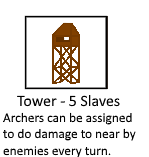
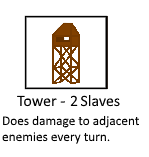
Added archer towers.

Changed region(s): [[0.0, 0.7134, 0.9396, 1.0], [0.4564, 0.586, 0.5369, 0.6879]]

diff --git a/Civilization Game/source.js b/Civilization Game/source.js
@@ -18,6 +18,49 @@ var pressed = false;
 var burning = false;
 var burningTown;
 var message1 = false;
+var arrowMoving = false;
+var arrowTargetX;
+var arrowTargetY;
+var targetSquad;
+
+function adjustArrow(){
+    if(arrowMoving==true){
+        console.log("Moved");
+        document.getElementById('Arrow').style.webkitTransform = "rotate("+angleBetween(parseInt(document.getElementById("Arrow").style.left),parseInt(document.getElementById("Arrow").style.top),arrowTargetX,arrowTargetY)+"deg)";  
+        if(parseInt(document.getElementById("Arrow").style.left)!=arrowTargetX || parseInt(document.getElementById("Arrow").style.top)!=arrowTargetY){
+            if(parseInt(document.getElementById("Arrow").style.left)-arrowTargetX < 0){
+                document.getElementById("Arrow").style.left = parseInt(document.getElementById("Arrow").style.left) + 1; 
+            }else if(parseInt(document.getElementById("Arrow").style.left)-arrowTargetX > 0){
+                document.getElementById("Arrow").style.left = parseInt(document.getElementById("Arrow").style.left) - 1; 
+            }
+
+            if(parseInt(document.getElementById("Arrow").style.top)-arrowTargetY < 0){
+                document.getElementById("Arrow").style.top = parseInt(document.getElementById("Arrow").style.top) + 1; 
+            }else if(parseInt(document.getElementById("Arrow").style.top)-arrowTargetY > 0){
+                document.getElementById("Arrow").style.top = parseInt(document.getElementById("Arrow").style.top) - 1; 
+            }   
+            setTimeout(adjustArrow,0.1);  
+        }else{
+            arrowMoving = false;
+            if(squads[targetSquad].units.length>1){
+                squads[targetSquad].units.splice(squads[targetSquad].units.length-1,1);   
+            }else{
+                squads.splice(targetSquad,1);
+            }
+        }    
+    }
+    
+}
+
+function arrowEffect(x1,y1,x2,y2){
+    document.getElementById("Arrow").style.left = x1;
+    document.getElementById("Arrow").style.top = y1;
+    document.getElementById('Arrow').style.webkitTransform = "rotate("+angleBetween(x1,y1,x2,y2)+"deg)";  
+    arrowMoving = true;
+    arrowTargetX=x2+50;
+    arrowTargetY=y2+50;
+    setTimeout(adjustArrow,100);  
+}
 
 function resetMessages(){
     message1 = false;
@@ -172,11 +215,21 @@ function advanceTurn(){
             rand = round(random(0,squads[a].adjacentSpaces.length-1));
             squads[a].targetX = squads[a].adjacentSpaces[rand].x;
             squads[a].targetY = squads[a].adjacentSpaces[rand].y; 
+
         }
         if(squads[a].team==1 && battle == 0){
             squads[a].update();
         }
+
+
     }
+
+    for(var a=0;a<towns.length;a++){
+        towns[a].arrowFired = false;
+    }
+
+
+
         
     }   
 }
@@ -437,6 +490,7 @@ function clearMap(){
     for(var a=1;a<13;a++){
         document.getElementById("town"+a).src = ""; 
         document.getElementById("Flag"+a).src = ""; 
+        document.getElementById("Tower"+a).src = ""; 
     }  
     document.getElementById("ConvertUnitsButton").src = "";    
     document.getElementById("GarrisonButton").src = "";    
@@ -488,6 +542,7 @@ function clearMap(){
     document.getElementById("X").src = ("");
     document.getElementById("Swords").src = ("");
     document.getElementById("Fire").src = ("");
+    document.getElementById("Arrow").src = ("");
     document.getElementById("SoldierToPeasant").src = ("");
     document.getElementById("HorizontalLine").src = ("");
     document.getElementById("SquadTroops").innerHTML = ("");
@@ -564,6 +619,30 @@ function draw() {
     document.getElementById("DividingLine").src = ("graphics/DividingLine.png");
     document.getElementById("HorizontalLine").src = ("graphics/HorizontalLine.png");
     document.getElementById("EndTurnButton").src = ("graphics/EndTurnButton.png");
+
+    for(var d=0;d<towns.length;d++){
+        for(var a=0;a<mapPoints.length;a++){
+            if(adjacent(towns[d].x,towns[d].y,mapPoints[a].x,mapPoints[a].y)){
+                for(var b=0;b<squads.length;b++){
+                    if(squads[b].x == mapPoints[a].x && squads[b].y== mapPoints[a].y){
+                        if(towns[d].tower==true && squads[b].team != towns[d].team){
+                            console.log("Fired");
+                            if(towns[d].arrowFired==false){
+                                towns[d].arrowFired = true; 
+                                targetSquad = b;
+                                arrowEffect(towns[d].x,towns[d].y,mapPoints[a].x,mapPoints[a].y);   
+                            }
+                        }
+                    }
+                }
+            }
+        }    
+    }
+    
+
+    if(arrowMoving){
+        document.getElementById("Arrow").src = ("graphics/Arrow2.png"); 
+    }
 
     if(battle == 1 && battleScreen == 0){
         document.getElementById("EndTurnButton").src = "";

diff --git a/Civilization Game/towns.js b/Civilization Game/towns.js
@@ -16,10 +16,13 @@ function Town(x,y,i,t){
     this.soldiers = 0;
     this.slaves = 0;
     this.wall = false;
+    this.tower = false;
+    this.arrowFired = false;
 
     for(var b=0;b<this.peasants;b++){
             this.garrison.push(new Unit(4));
     }
+
 
     this.grow = function(){
         var oldPop = this.peasants;
@@ -45,9 +48,6 @@ function Town(x,y,i,t){
 		document.getElementById("town" + this.i).style.left = this.x;
 		document.getElementById("town" + this.i).style.top = this.y;
 
-        if(this.wall==true){
-
-        }
 
         if(this.team == 1){
             document.getElementById("Flag"+this.i).src = "graphics/BlueFlag.png"; 
@@ -97,12 +97,17 @@ function Town(x,y,i,t){
                 }else{
                     document.getElementById("Construction1").src = "graphics/Construction1.png"; 
                 }
-    			document.getElementById("Construction2").src = "graphics/Construction2.png"; 
+
+                if(this.tower==true){
+                    document.getElementById("Construction2").src = "graphics/Construction2Green.png";  
+                }else{
+                    document.getElementById("Construction2").src = "graphics/Construction2.png"; 
+                }
     		}else if(this.menu==3){
     			document.getElementById("SquadListBackground1").src = "graphics/SquadListBackground.png"; 
     			document.getElementById("SquadListBackground2").src = "graphics/SquadListBackground.png"; 
                 document.getElementById("SquadTroops").style.top = 947;
-    			document.getElementById("SquadTroops").innerHTML = ("Sqaud Troops");
+    			document.getElementById("SquadTroops").innerHTML = ("Squad Troops");
     			document.getElementById("TownTroops").innerHTML = ("Town Garrison("+this.garrison.length+")");
     			document.getElementById("Slider1").src = "graphics/Slider.png";
     			document.getElementById("Slider2").src = "graphics/Slider.png";
@@ -207,10 +212,6 @@ function Town(x,y,i,t){
 
     			
     			
-    			if(this.tower==true){
-    				document.getElementById("SquadListBackground3").src = "graphics/SquadListBackground.png";
-    				document.getElementById("TowerTroops").innerHTML = ("Tower Garrison");	
-    			}
     			
     		}else if(this.menu==4){
                 document.getElementById("NumberBackground").src = "graphics/NumberBackground.png";
@@ -246,6 +247,12 @@ function Town(x,y,i,t){
             }
 		}
 
+        if(this.tower==true){
+            document.getElementById("Tower" + this.i).src = "graphics/Tower.png";
+            document.getElementById("Tower" + this.i).style.left = this.x-50;
+            document.getElementById("Tower" + this.i).style.top = this.y;
+        }
+
         if(selection == towns[this.i-1]){
             document.getElementById("town" + this.i).style.WebkitFilter="brightness(120%)";
         }else{
@@ -266,6 +273,8 @@ function Town(x,y,i,t){
         var growthRate = 40 - (this.taxRate*10);
         this.growthRate = growthRate/100;
         this.taxRate = this.realTaxRate;
+
+
 
         this.soldiers = 0;
         for(var a=0;a<this.garrison.length;a++){

diff --git a/Civilization Game/index.html b/Civilization Game/index.html
@@ -624,6 +624,71 @@
       left: 1300px;
       top: 875px;
     }
+    #Tower1 {
+      position: absolute;
+      left: 70px;
+      top: 290px;
+    }
+    #Tower2 {
+      position: absolute;
+      left: 70px;
+      top: 290px;
+    }
+    #Tower3 {
+      position: absolute;
+      left: 70px;
+      top: 290px;
+    }
+    #Tower4 {
+      position: absolute;
+      left: 70px;
+      top: 290px;
+    }
+    #Tower5 {
+      position: absolute;
+      left: 70px;
+      top: 290px;
+    }
+    #Tower6 {
+      position: absolute;
+      left: 70px;
+      top: 290px;
+    }
+    #Tower7 {
+      position: absolute;
+      left: 70px;
+      top: 290px;
+    }
+    #Tower8 {
+      position: absolute;
+      left: 70px;
+      top: 290px;
+    }
+    #Tower9 {
+      position: absolute;
+      left: 70px;
+      top: 290px;
+    }
+    #Tower10 {
+      position: absolute;
+      left: 70px;
+      top: 290px;
+    }
+    #Tower11 {
+      position: absolute;
+      left: 70px;
+      top: 290px;
+    }
+    #Tower12 {
+      position: absolute;
+      left: 70px;
+      top: 290px;
+    }
+    #Arrow {
+      position: absolute;
+      left: 70px;
+      top: 290px;
+    }
 
   	</style>
 </head>
@@ -643,6 +708,18 @@
   <img src="graphics/SmallTown.png" id="town10" draggable="false">
   <img src="graphics/SmallTown.png" id="town11" draggable="false">
   <img src="graphics/SmallTown.png" id="town12" draggable="false">
+  <img src="graphics/Tower.png" id="Tower1" draggable="false">
+  <img src="graphics/Tower.png" id="Tower2" draggable="false">
+  <img src="graphics/Tower.png" id="Tower3" draggable="false">
+  <img src="graphics/Tower.png" id="Tower4" draggable="false">
+  <img src="graphics/Tower.png" id="Tower5" draggable="false">
+  <img src="graphics/Tower.png" id="Tower6" draggable="false">
+  <img src="graphics/Tower.png" id="Tower7" draggable="false">
+  <img src="graphics/Tower.png" id="Tower8" draggable="false">
+  <img src="graphics/Tower.png" id="Tower9" draggable="false">
+  <img src="graphics/Tower.png" id="Tower10" draggable="false">
+  <img src="graphics/Tower.png" id="Tower11" draggable="false">
+  <img src="graphics/Tower.png" id="Tower12" draggable="false">
   <img src="graphics/BlueFlag.png" id="Flag1" draggable="false">
   <img src="graphics/BlueFlag.png" id="Flag2" draggable="false">
   <img src="graphics/BlueFlag.png" id="Flag3" draggable="false">
@@ -727,6 +804,7 @@
   <img src="graphics/SwordsmanUnit.png" id="MapUnit6" draggable="false">
   <img src="graphics/SwordsmanUnit.png" id="MapUnit7" draggable="false">
   <img src="graphics/SwordsmanUnit.png" id="MapUnit8" draggable="false">
+  <img src="graphics/Arrow2.png" id="Arrow" draggable="false">
   <img src="graphics/Arrow.png" id="Arrow1" draggable="false">
   <img src="graphics/Arrow.png" id="Arrow2" draggable="false">
   <img src="graphics/Arrow.png" id="Arrow3" draggable="false">

diff --git a/Civilization Game/mouse.js b/Civilization Game/mouse.js
@@ -37,6 +37,19 @@ function mouseReleased() {
         }
     }
 
+    if(mouseIsContainedIn(1226,815,1307,890)&&townSelected){
+        for(var a=0;a<towns.length;a++){
+            if(selection==towns[a]){
+                if(towns[a].slaves>1 && towns[a].menu==2){
+                    removeTownUnit(a,5);
+                    removeTownUnit(a,5);
+                    towns[a].tower = true;
+                    document.getElementById("Build").play();
+                }
+            }
+        }
+    }
+
     if(mouseIsContainedIn(parseInt(document.getElementById("SoldierToPeasant").x),parseInt(document.getElementById("SoldierToPeasant").y),parseInt(document.getElementById("SoldierToPeasant").x)+105,parseInt(document.getElementById("SoldierToPeasant").x)+70)){
         if(squadListUnitHeld){
             for(var a=0;a<squads.length;a++){
